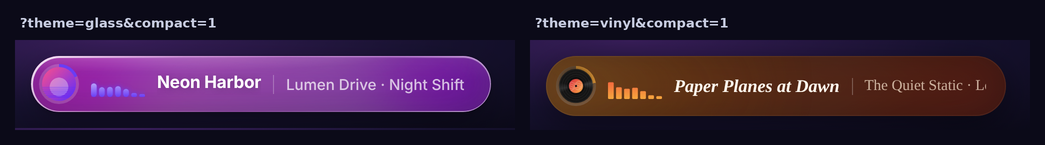
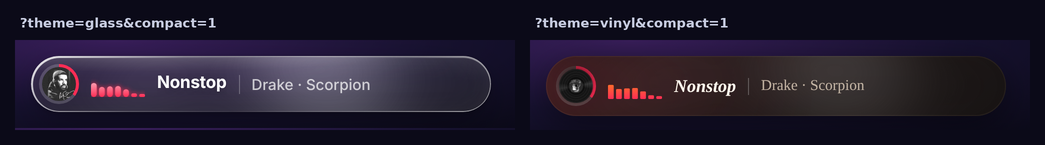
README: animated GIF cycling through all themes (#8)
* README: animated header GIF that cycles through all themes

Replaces the static vinyl hero image. Frames are captured with a fake
clock at 15 fps so the equalizer moves smoothly, with a short crossfade
between themes.

* README: Nonstop by Drake in real time across the theme GIF and stills

The GIF now plays one song in real time (20 fps) and the time keeps
running from theme to theme. The compact and editor screenshots use the
same song. The theme overview image is dropped since the header GIF
already shows every theme.

* README visuals: real Scorpion cover for Nonstop

* README GIF: 4 seconds per theme

* README GIF: 7 seconds per theme, 10 fps

* README GIF: song time runs at real speed

The overlay's progress clock ran about 3.5x fast under the fake clock,
so the time now gets pinned to each frame's real time.

---------

diff --git a/README.md b/README.md
@@ -7,7 +7,7 @@
 
 Show the song you're playing on **YouTube Music** in your OBS stream: cover, title, artist, progress and an equalizer that moves with the music.
 
-![The vinyl theme: a spinning record with the album cover as its label, the song title, artist and a live equalizer](docs/hero.png)
+![The overlay cycling through all eight themes: Classic, Liquid glass, Vinyl, Retro hi-fi, True Damage, League of Legends, Counter-Strike and FACEIT, each with a live equalizer](docs/themes.gif)
 
 - 8 designs, from a clean card to a spinning record, plus game styles for League of Legends, Counter-Strike and FACEIT
 - An editor in your browser to change colors, fonts, size and more, with a live preview
@@ -65,9 +65,7 @@ With the server running, open **[http://127.0.0.1:8974/editor](http://127.0.0.1:
 
 The editor remembers your settings.
 
-## Themes
-
-![All eight themes side by side: Classic, Liquid glass, Vinyl, Retro hi-fi, True Damage, League of Legends, Counter-Strike and FACEIT](docs/themes.png)
+## Compact version
 
 Every theme also has a **compact** version, a slim one-line bar where the progress runs around the cover:
 
